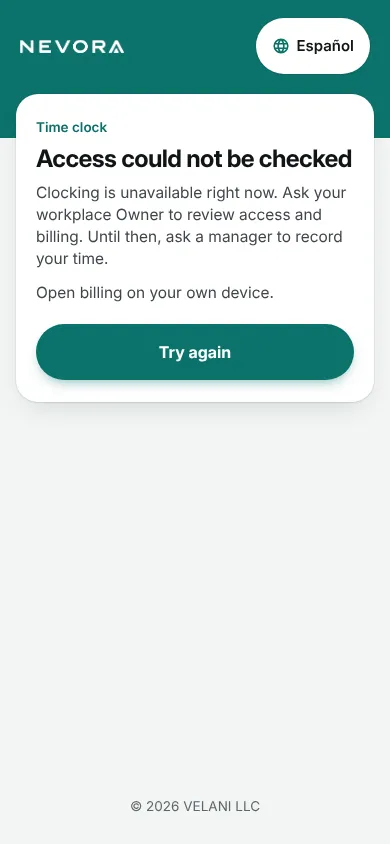
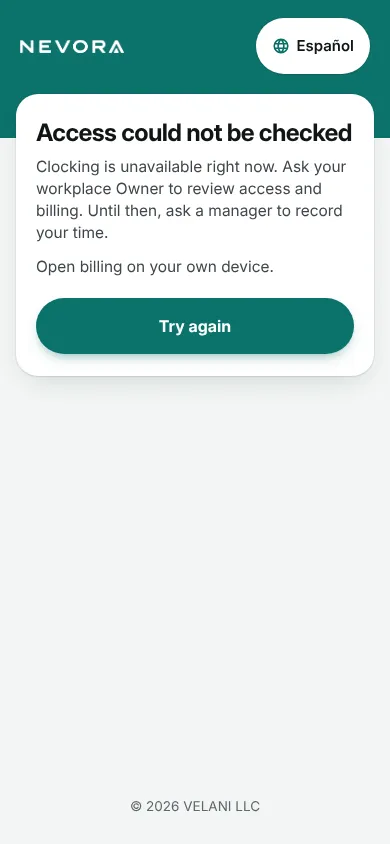
Clocker K15: after captures for the eyebrow and panel fix, sign-in and billing at 1440
Claude-Session: https://claude.ai/code/session_01N2UNZD2hdESzbsSS51peiH

Changed region(s): [[0.0923, 0.1232, 0.9231, 0.4621]]

diff --git a/docs/handoffs/2026-11-23-phase2-cloud/reports/clocker-states.md b/docs/handoffs/2026-11-23-phase2-cloud/reports/clocker-states.md
@@ -8,7 +8,13 @@ No real device, payment, billing provider, deploy or publishing.
 - `5151a9b0` Scan modes (in `tools/ui-scan/zz-scan.tar.gz`): `NEVORA_SCAN_CLOCKER_FLOW=states` (K13) and
   `NEVORA_SCAN_CLOCKER_FLOW=paused` with `NEVORA_SCAN_COMMERCE_RECOVERY=1` (K15).
 - `0801bfe9` Fixes in the Clocker's own files: `src/components/clocker.module.css`, `src/components/clocker-copy.ts`.
-- Shots commit: this report, `shots/clocker-states/rows.json` and `img/`.
+- `9e6a9b95` First shots commit.
+- `96be1370` K15 follow-up from the lead: no "Time clock" eyebrow on the paused page; `RecoveryFrame` takes
+  `brandLine={false}` (only the paused Clocker passes it), so from 1024px the tablet no longer shows the sign-in line
+  "Your week, in one place.". The billing pages' frame renders byte-identical markup before and after (EN and ES,
+  with and without `below`/`legal`, compared with renderToStaticMarkup).
+- `d01b7e15` The paused scan also captures `/login` and `/app/billing` at 1440 (both unchanged).
+- Shots commit (latest): this report, `shots/clocker-states/rows.json` and `img/`.
 
 ## How each state was reached
 - **K13 Someone else's punch is waiting.** The kiosk shows it when the tablet holds an unconfirmed punch for one person
@@ -29,13 +35,15 @@ No server change was needed for either state.
 |---|---|---|
 | K13 | At 768x1024 the "Clears in 8 s / Keep my place" pill covered the only button, Done. | The pill steps aside on this screen, as it does on a receipt. The screen still clears on time and screen readers still hear "This screen clears in 10 seconds." |
 | K15 (Spanish) | "Pídele al propietario de tu negocio que revise…" | "Pídele al dueño del negocio que revise…" (the Clocker's word everywhere else, 25 strings). |
+| K15 | Eyebrow "Time clock" over "This time clock is paused" (ES "Registro de tiempo" over "El registro de tiempo está en pausa"). | No eyebrow; the heading says it once. |
+| K15 at 1024 | Panel beside the card showed the sign-in line "NEVORA Workforce / Your week, in one place." | Panel shows the wordmark and "Powered by VELANI LLC" only. Sign-in and billing recovery keep their panel. |
 
 ## Gate check (390x844, 768x1024, 1024x768; English and Spanish)
 | Check | K13 | K15 |
 |---|---|---|
 | Horizontal or vertical overflow | none | none |
 | Buttons | one primary Done / Listo, 56px tall, 322px wide at 390, 34px from each edge | one primary Try again / Intentar de nuevo, 56px tall, 36px from each edge; language switch 56px |
-| Repeated wording | none | eyebrow repeats "time clock" (end sweep below) |
+| Repeated wording | none | none (eyebrow removed) |
 | Overlap, cut-off text | fixed (pill over Done at 768) | none |
 | Time format | band clock `9:17 AM` (English) | no times on the page |
 | Targets under 44px | none | none |
@@ -62,8 +70,5 @@ None.
 1. K13: a second tab on the same tablet opens a normal Clock in screen while another person's punch is waiting in the
    first tab; only the tab that holds the punch shows K13. A kiosk runs one tab, so it's low risk. Behaviour, not layout.
 2. Kiosk-wide: the Spanish band clock reads `9:18 a. m.`; the one time format is `7:00 AM`. Jose to decide for Spanish.
-3. K15: the eyebrow "Time clock" over "This time clock is paused" repeats the words (Spanish too). Proposed: drop the
-   eyebrow on this page. Not changed because the eyebrow-and-heading pattern is shared with the billing recovery pages.
-4. K15 at 1024x768: the shared recovery frame (`src/components/commerce-recovery/frame.tsx`) shows the sign-in panel
-   "Your week, in one place." on a shared tablet. Proposed: a plain band on the Clocker paused page (shared file, not
-   changed).
+3. K15 at 1024x768: the panel now holds only the wordmark and "Powered by VELANI LLC"; a kiosk band there (clock,
+   place) would match K1–K14. Left for Jose.
